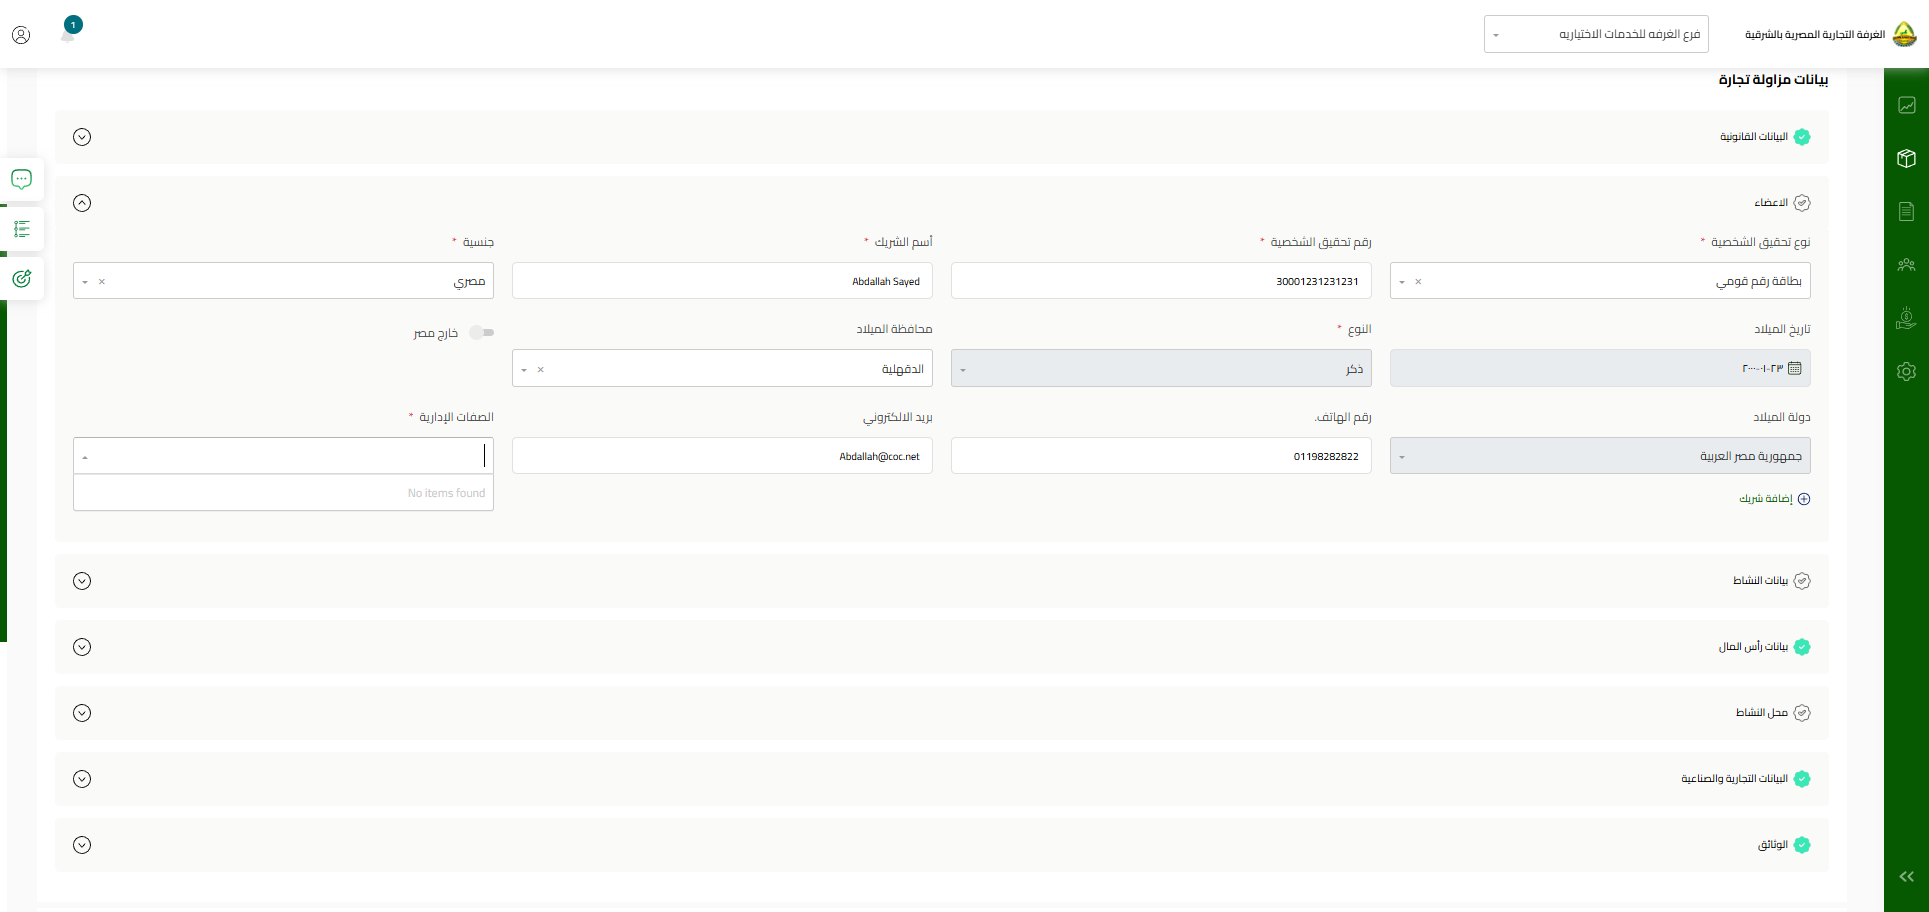
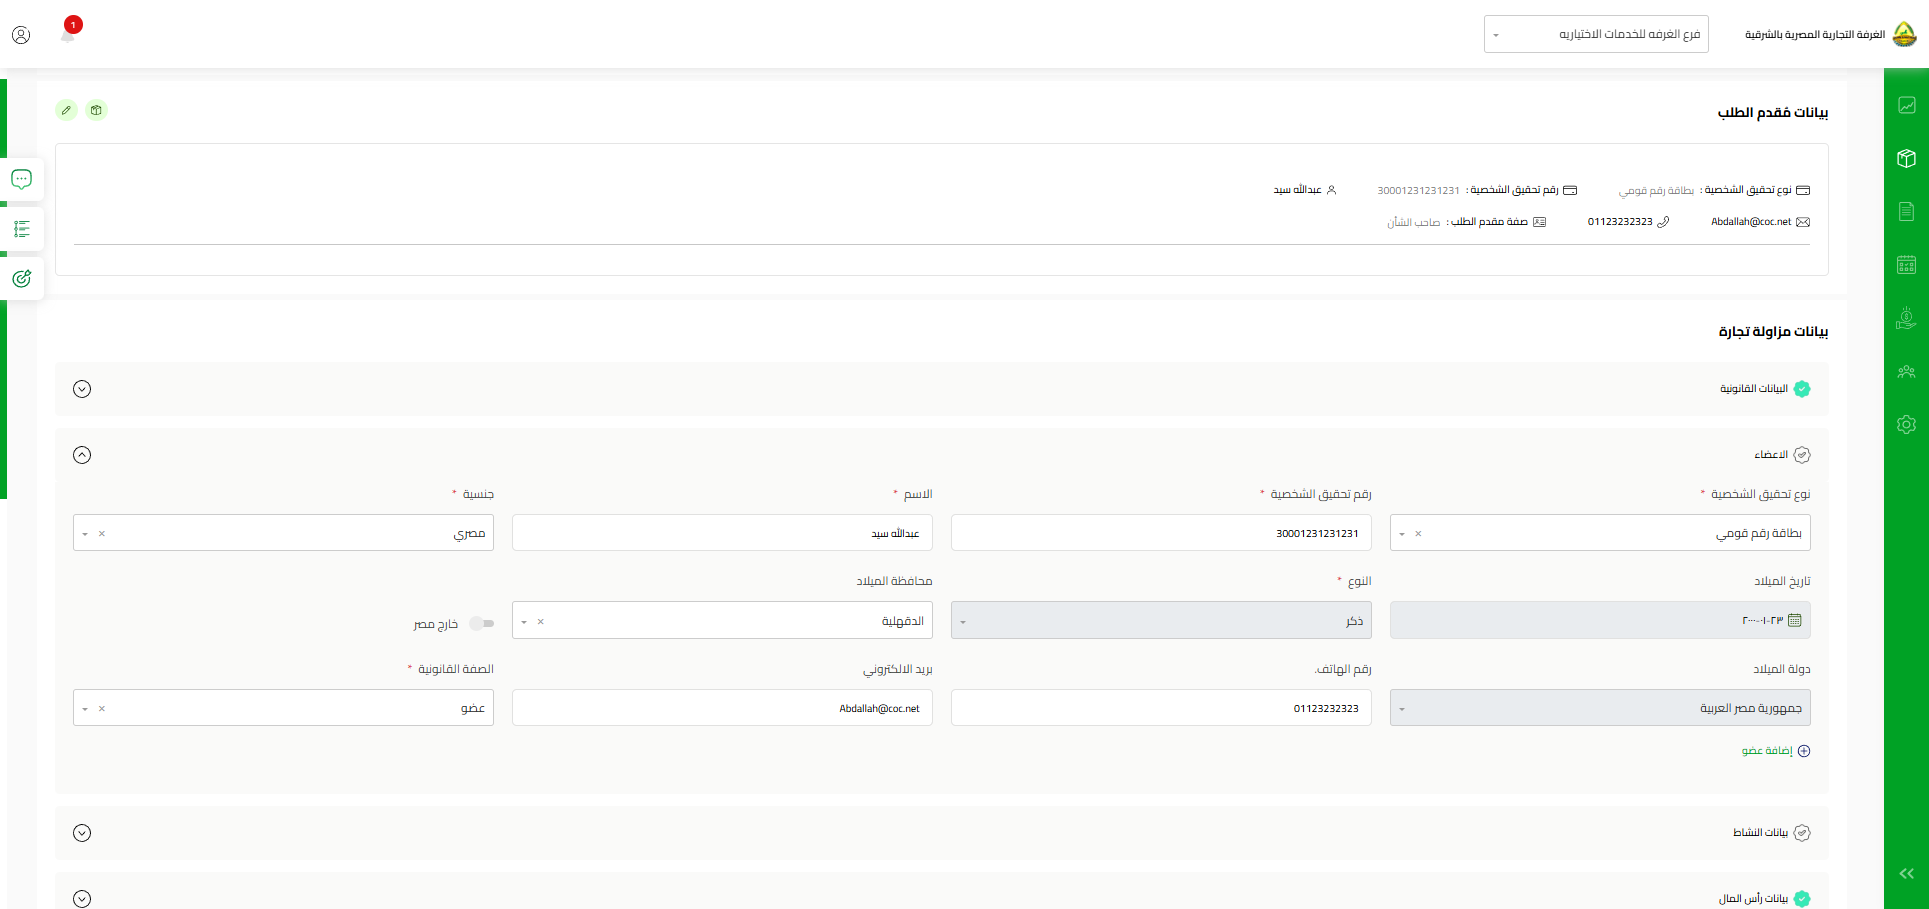
FirstVersion

diff --git a/src/main/java/Pages/K01_ResrvationsListPage.java b/src/main/java/Pages/K01_ResrvationsListPage.java
@@ -1,0 +1,28 @@
+package Pages;
+
+import Utilities.Utility;
+import Utilities.Validations;
+import org.openqa.selenium.By;
+import org.openqa.selenium.WebDriver;
+
+import static Utilities.Scrolling.ScrollToElement;
+public class K01_ResrvationsListPage {
+    public K01_ResrvationsListPage(WebDriver driver){
+        this.driver = driver ;
+    }
+    private WebDriver driver;
+
+    private final By Add_Reservation_Button = By.xpath("//button[contains (text(), 'أضافة حجز ')]");
+    private final By Applicant_Name_Field = By.xpath("//label[normalize-space(text())='اسم مقدم الطلب']/following-sibling::*[1]");
+    private final By NumberOfApplicant_Field = By.xpath("//label[normalize-space(text())='رقم هاتف مقدم الطلب']/following-sibling::*[1]");
+    private final By NationalityOfApplicant_Field = By.xpath("//label[normalize-space(text())='جنسية مقدم الطلب']/following-sibling::*[1]");
+    private final By ApplicantIDType_Field = By.xpath("//label[normalize-space(text())='نوع تحقيق شخصية مقدم الطلب']/following-sibling::*[1]");
+    private final By ApplicantID_Field = By.xpath("//label[normalize-space(text())='رقم تحقيق شخصية مقدم الطلب']/following-sibling::*[1]");
+    private final By ApplicantAttribute_Field = By.xpath("//label[normalize-space(text())='صفة مقدم الطلب']/following-sibling::*[1]");
+    private final By RequestType_Field = By.xpath("//label[normalize-space(text())='نوع الطلب']/following-sibling::*[1]");
+    private final By CertificateType_Field = By.xpath("//label[normalize-space(text())='نوع الشهادة']/following-sibling::*[1]");
+
+
+    private final By PersonalIdentificationNumber_Field = By.xpath("//label[normalize-space(text())='رقم تحقيق شخصية مقدم الطلب']/following-sibling::*[1]");
+
+}

diff --git a/src/main/java/Pages/P03_BusinessLicensePage.java b/src/main/java/Pages/P03_BusinessLicensePage.java
@@ -59,7 +59,7 @@ public class P03_BusinessLicensePage {
     private final By SendToCollectButtonPouUp = By.xpath("//button[contains(normalize-space(), 'ارسل الطلب للتحصيل')]");
     private final By RecieveCertificateButton = By.xpath("//button[contains(text(), \"تم التسليم\")]");
     private final By RequestNumber = By.xpath("(//td/a[@class=\"ng-star-inserted\"])[1]");
-
+    private final By fff = By.xpath("");
 
     public P03_BusinessLicensePage ClickOnAddNewRequest_Button () throws InterruptedException {
         Utility.WatingLoadingCircle_And_CLICKONELEMENTS(driver,AddNewRequest_Button,Loading_Circle);

diff --git a/src/main/java/Pages/P01_LoginPage.java b/src/main/java/Pages/P01_LoginPage.java
@@ -13,7 +13,7 @@ public class P01_LoginPage {
     }
     private WebDriver driver;
     private final By Login_Email = By.xpath("//input[@formcontrolname=\"username\"]");
-    private final By Login_Password = By.xpath("//input[@formcontrolname=\"password\"]");
+    private final By Login_Password = By.xpath("//input[@type=\"password\"]");
     private final By Login_button = By.xpath("//button[@type=\"submit\"]");
     private final By LoadingCircle = By.xpath("//mat-spinner[@mode=\"indeterminate\"]");
 
